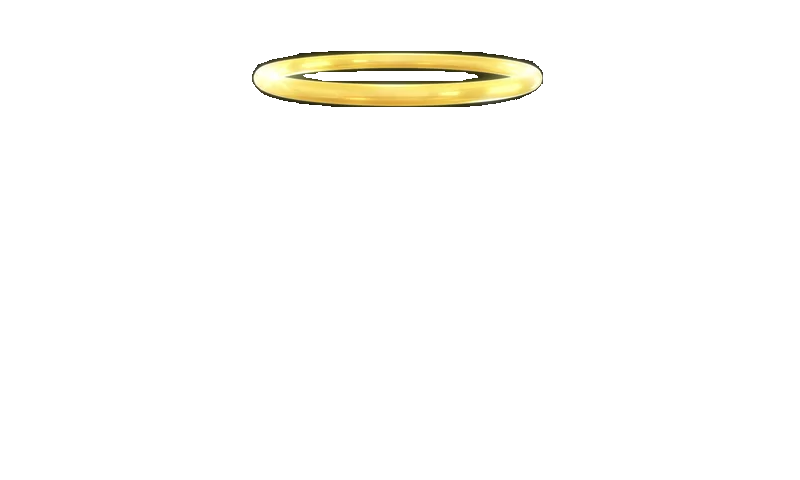
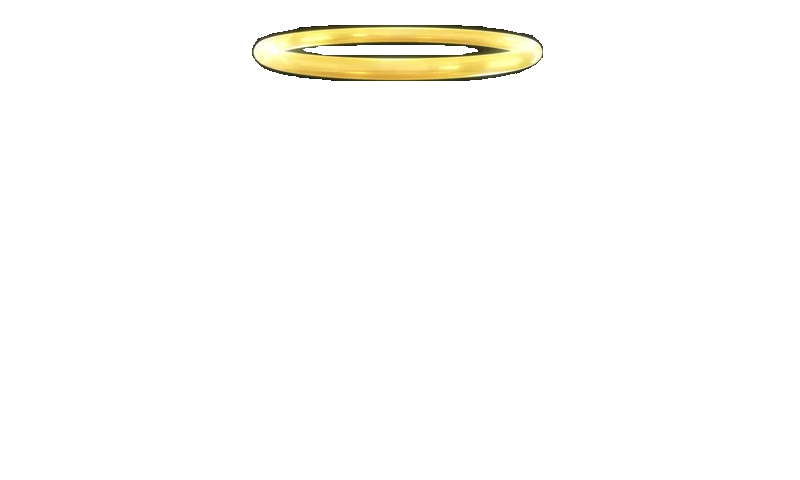
Add photobooth mode

Changed region(s): [[0.3125, 0.0312, 0.6875, 0.25]]

diff --git a/composer.py b/composer.py
@@ -2,16 +2,19 @@ import time
 import logging
 from PIL import Image, ImageDraw, ImageFont
 from datetime import datetime
+from enum import Enum
 
 from camera import Camera
 from printer import Printer
 from database import Database
 
+class Mode(Enum):
+    ticket = 1
+    photo = 2
+
 class Composer(object):
     TEMP_FILE = "/var/tmp/temp.jpg"
     NUMBER_CACHE = "cache"
-    TITLE_FONT_FAMILY = "/usr/local/share/fonts/unispace bd.ttf"
-    BODY_FONT_FAMILY = "/usr/local/share/fonts/unispace rg.ttf"
     NUMBER_SIZE = 160
     
     database: Database
@@ -23,65 +26,107 @@ class Composer(object):
         self.database = database
         self.last_print_timestamp = None
     
-    def make_ticket(self, forced_number: int, camera: Camera, printer: Printer):
+    def make_ticket(self, forced_number: int, camera: Camera, printer: Printer, mode: Mode):
+        logging.debug(f"Last timestamp: {self.last_print_timestamp} current time: {time.time()}, diff: {'' if self.last_print_timestamp is None else time.time() - self.last_print_timestamp}")
         if self.last_print_timestamp is not None and time.time() - self.last_print_timestamp < 1:
             logging.warning("Throttling call.")
         else:
+            result = False
+            
             self.last_print_timestamp = time.time()
-            image = Image.new("L", (800, 800), 255)
-            draw = ImageDraw.Draw(image)
-
-            title_font = ImageFont.truetype(self.TITLE_FONT_FAMILY, 58)
-            body_font = ImageFont.truetype(self.BODY_FONT_FAMILY, 46)
-            side_text_font = ImageFont.truetype(self.BODY_FONT_FAMILY, 40)
-            number_font = ImageFont.truetype(self.BODY_FONT_FAMILY, self.NUMBER_SIZE)
-
-            draw.text((20, 18), "Welcome to Crêpiphany", font = title_font)
- 
-            ticket_number = forced_number
             
-            if forced_number is not None:
-                ticket_number = forced_number
-            elif self.number is None:
-                self.number = self.database.get_latest_ticket_number() + 1
-                ticket_number = self.number
+            if mode == Mode.ticket:
+                result = self.generate_ticket(forced_number, camera)
+            elif mode == Mode.photo:
+                result = self.generate_photo(camera)
             else:
-                ticket_number = self.number
-
-            logging.info(f"Printing ticket #{ticket_number}")
-
-            digits = len(str(ticket_number))
+                logging.error("Unsupported mode")
             
-            draw.text((225, 590), "You are number", font=body_font)
-            draw.text((390 - (digits * (self.NUMBER_SIZE/4)), 645), str(ticket_number), font=number_font)     
-
-            left_text = Image.new("L", (520, 50), 255)
-            left_text_draw = ImageDraw.Draw(left_text)
-            left_text_draw.text((0, 0), "2024 Fundraiser", font=side_text_font)       
-            rotated_left_text = left_text.rotate(90, expand=True)
-
-            right_text = Image.new("L", (520, 50), 255)
-            right_text_draw = ImageDraw.Draw(right_text)
-            formatted_time = datetime.now().strftime("%A %H:%M:%S")
-            right_text_draw.text((0, 0), formatted_time, font=side_text_font)
-            rotated_right_text = right_text.rotate(270, expand=True)
-
-            image.paste(rotated_left_text, (16, 97))
-            image.paste(rotated_right_text, (733, 135))
-            
-            pic = camera.get_latest_image()
-            
-            if pic is not None:
-                image.paste(pic, (80,95))
-                
-                image.save(self.TEMP_FILE)
-                logging.debug("Image saved")
-
+            if result:
                 printer.print(self.TEMP_FILE)
-                self.increment_number()
+                if mode == Mode.ticket:
+                    self.increment_number()
             else:
                 logging.warning("No picture available yet")
+                
+    def generate_ticket(self, forced_number: int, camera: Camera) -> bool:
+        title_font_family = "/usr/local/share/fonts/unispace bd.ttf"
+        body_font_family = "/usr/local/share/fonts/unispace rg.ttf"
+         
+        image = Image.new("L", (800, 800), 255)
+        draw = ImageDraw.Draw(image)
+
+        title_font = ImageFont.truetype(title_font_family, 58)
+        body_font = ImageFont.truetype(body_font_family, 46)
+        side_text_font = ImageFont.truetype(body_font_family, 40)
+        number_font = ImageFont.truetype(body_font_family, self.NUMBER_SIZE)
+
+        draw.text((20, 18), "Welcome to Crêpiphany", font = title_font)
+
+        ticket_number = forced_number
         
+        if forced_number is not None:
+            ticket_number = forced_number
+        elif self.number is None:
+            db_number = self.database.get_latest_ticket_number()
+            if db_number is None:
+                self.number = 1
+            else:
+                self.number = self.database.get_latest_ticket_number() + 1
+            ticket_number = self.number
+        else:
+            ticket_number = self.number
+
+        logging.info(f"Printing ticket #{ticket_number}")
+
+        digits = len(str(ticket_number))
+        
+        draw.text((225, 590), "You are number", font=body_font)
+        draw.text((390 - (digits * (self.NUMBER_SIZE/4)), 645), str(ticket_number), font=number_font)     
+
+        left_text = Image.new("L", (520, 50), 255)
+        left_text_draw = ImageDraw.Draw(left_text)
+        left_text_draw.text((0, 0), "2024 Fundraiser", font=side_text_font)       
+        rotated_left_text = left_text.rotate(90, expand=True)
+
+        right_text = Image.new("L", (520, 50), 255)
+        right_text_draw = ImageDraw.Draw(right_text)
+        formatted_time = datetime.now().strftime("%A %H:%M:%S")
+        right_text_draw.text((0, 0), formatted_time, font=side_text_font)
+        rotated_right_text = right_text.rotate(270, expand=True)
+
+        image.paste(rotated_left_text, (16, 97))
+        image.paste(rotated_right_text, (733, 135))
+        
+        pic = camera.get_latest_image(False)
+        
+        if pic is not None:
+            image.paste(pic, (80,95))
+            
+            image.save(self.TEMP_FILE)
+            logging.debug("Image saved")
+            return True
+            
+    def generate_photo(self, camera: Camera) -> bool:
+        image = Image.new("L", (800, 650), 255)
+        draw = ImageDraw.Draw(image)
+
+        title_font = ImageFont.truetype("/usr/local/share/fonts/LucyTheCat.ttf", 60)
+
+        draw.text((20, 25), "Crêpiphany Fundraiser 2024", font = title_font)
+
+        logging.info("Printing photo")
+        
+        pic = camera.get_latest_image(True)
+        
+        if pic is not None:
+            image.paste(pic, (80,130))
+            
+            image.save(self.TEMP_FILE)
+            logging.debug("Image saved")
+            return True
+        
+                
     def increment_number(self):
         self.database.insert(self.number)
         self.number += 1

diff --git a/viewfinder.py b/viewfinder.py
@@ -1,0 +1,85 @@
+import cv2
+from camera import Camera
+import logging
+import numpy as np
+from pynput.keyboard import Listener
+from threading import Thread
+
+class Viewfinder(object):
+    WIDTH: int = 800
+    HEIGHT: int = 480
+    WINDOW_NAME: str = "preview"
+    
+    camera: Camera
+    alpha: np.ndarray
+    
+    decal: np.ndarray
+    halo: np.ndarray
+    horns: np.ndarray
+    
+    key_thread: Thread
+    render_thread: Thread
+    
+    running: bool
+    
+    def __init__(self, camera: Camera):
+        self.camera = camera
+        
+    def start(self):
+            self.running = True
+            
+            logging.debug("Retrieving decal pictures")
+            self.halo = cv2.imread("halo.png", cv2.IMREAD_UNCHANGED)
+            self.horns = cv2.imread("horns.png", cv2.IMREAD_UNCHANGED)
+            self.decal = self.halo
+            
+            self.alpha = np.full((self.HEIGHT, self.WIDTH), 128, dtype=np.uint8)
+            
+            logging.debug("Opening preview window")
+            cv2.startWindowThread()
+            cv2.namedWindow(self.WINDOW_NAME, cv2.WND_PROP_FULLSCREEN)
+            cv2.setWindowProperty(self.WINDOW_NAME, cv2.WND_PROP_FULLSCREEN,cv2.WINDOW_FULLSCREEN)
+            logging.debug("Rendering")
+            
+            self.key_thread = Thread(target=self.listen_for_input)
+            self.key_thread.start()
+            
+            self.render_thread = Thread(target=self.render_preview)
+            self.render_thread.start()
+            
+    
+    def render_preview(self):
+        while self.running:
+            frame = self.camera.get_latest_frame()
+            
+            # Add a border to fill the screen    
+            margin = int((self.WIDTH - frame.shape[1]) / 2)
+            bordered = cv2.copyMakeBorder(src=frame, top=0, bottom=0, left=margin, right=margin, borderType=cv2.BORDER_CONSTANT)
+            
+            # Add alpha layer (missing from video still)
+            bordered_with_alpha = np.dstack((bordered, self.alpha))
+            
+            # Combine photo and decal
+            combined = cv2.addWeighted(bordered_with_alpha, 1, self.decal , 1, 0)
+            
+            # Mirror image
+            flip = cv2.flip(combined, 1)    
+            
+            # Display composite image on screen
+            cv2.imshow(self.WINDOW_NAME, flip)
+            
+            # Remove the border to restore original image dimension
+            cropped = flip[0:flip.shape[0], margin:flip.shape[1] - margin, 0:flip.shape[2]]
+
+            # Make modified image available for print    
+            self.camera.set_edited_image(cropped)
+            
+    def listen_for_input(self):
+        with Listener(on_press=self.on_press) as listener:
+            listener.join()
+                
+    def on_press(self, key):
+        if key.char == "q":
+            self.decal = self.halo
+        elif key.char == "d":
+            self.decal = self.horns

diff --git a/phoque.py b/phoque.py
@@ -2,9 +2,9 @@ from time import sleep
 import click
 from camera import Camera
 from database import Database
-from display import Display
+from viewfinder import Viewfinder
 from printer import Printer
-from composer import Composer
+from composer import Composer, Mode
 from gpiozero import Button
 from signal import pause
 import logging
@@ -12,7 +12,8 @@ import logging
 @click.command()
 @click.option("--number", "-n", default=None, help="Override for the ticket number")
 @click.option("--reset", "-r", is_flag=True, help="Reset ticket count to 0")
-def main(number, reset):
+@click.option("--mode", "-m", default="ticket", type=click.Choice(["ticket", "photo"], case_sensitive=False))
+def main(number, reset, mode):
     logging.basicConfig(
         level=logging.DEBUG,
         format="%(asctime)s [%(levelname)s] %(message)s",
@@ -29,6 +30,7 @@ def main(number, reset):
         database.reset_ticket_number()
     else: 
         comp = Composer(database)
+        print_mode = Mode[mode.lower()]
         
         with Camera() as camera:
             printer = Printer()
@@ -36,14 +38,16 @@ def main(number, reset):
             button = Button(23)
 
             def snap():
-                comp.make_ticket(number, camera, printer)
+                logging.debug("Snap")
+                comp.make_ticket(number, camera, printer, print_mode)
 
             button.when_released = snap
             
-            sleep(1)
-            
-            display = Display(camera)
-            display.start()
+            if print_mode == Mode.photo:
+                sleep(1)
+                
+                display = Viewfinder(camera)
+                display.start()
             
             logging.info("Initialization complete")
 

diff --git a/camera.py b/camera.py
@@ -46,7 +46,6 @@ class Camera(object):
         
     def run(self):
         while not self.stop_event.wait(0.1):
-            logging.debug("Capturing frame")
             result, frame = self.camera.read()
             
             if result:
@@ -55,24 +54,23 @@ class Camera(object):
             else:
                 raise RuntimeError("Error while capturing frame")
             
-    def get_latest_image(self):
+    def get_latest_image(self, edited: bool):
         assert self.thread is not None
         
         with self.lock:
-            logging.debug("Retrieving image")
-            return self.edited_image
+            logging.debug(f"Retrieving {'edited' if edited else ''} image")           
+            return self.edited_image if edited else self.image
         
     def get_latest_frame(self):
         assert self.thread is not None
         
         with self.lock:
-            logging.debug(f"Retrieving frame: {self.frame.shape}")
             return self.frame
         
     def set_edited_image(self, frame):
         self.edited_image = self.__generate_image(frame)
         
     def __generate_image(self, frame):
-        bw_frame = cv2.cvtColor(frame, cv2.COLOR_RGB2GRAY)               
+        bw_frame = cv2.cvtColor(frame, cv2.COLOR_RGB2GRAY)
         with self.lock:
             return Image.fromarray(bw_frame)
